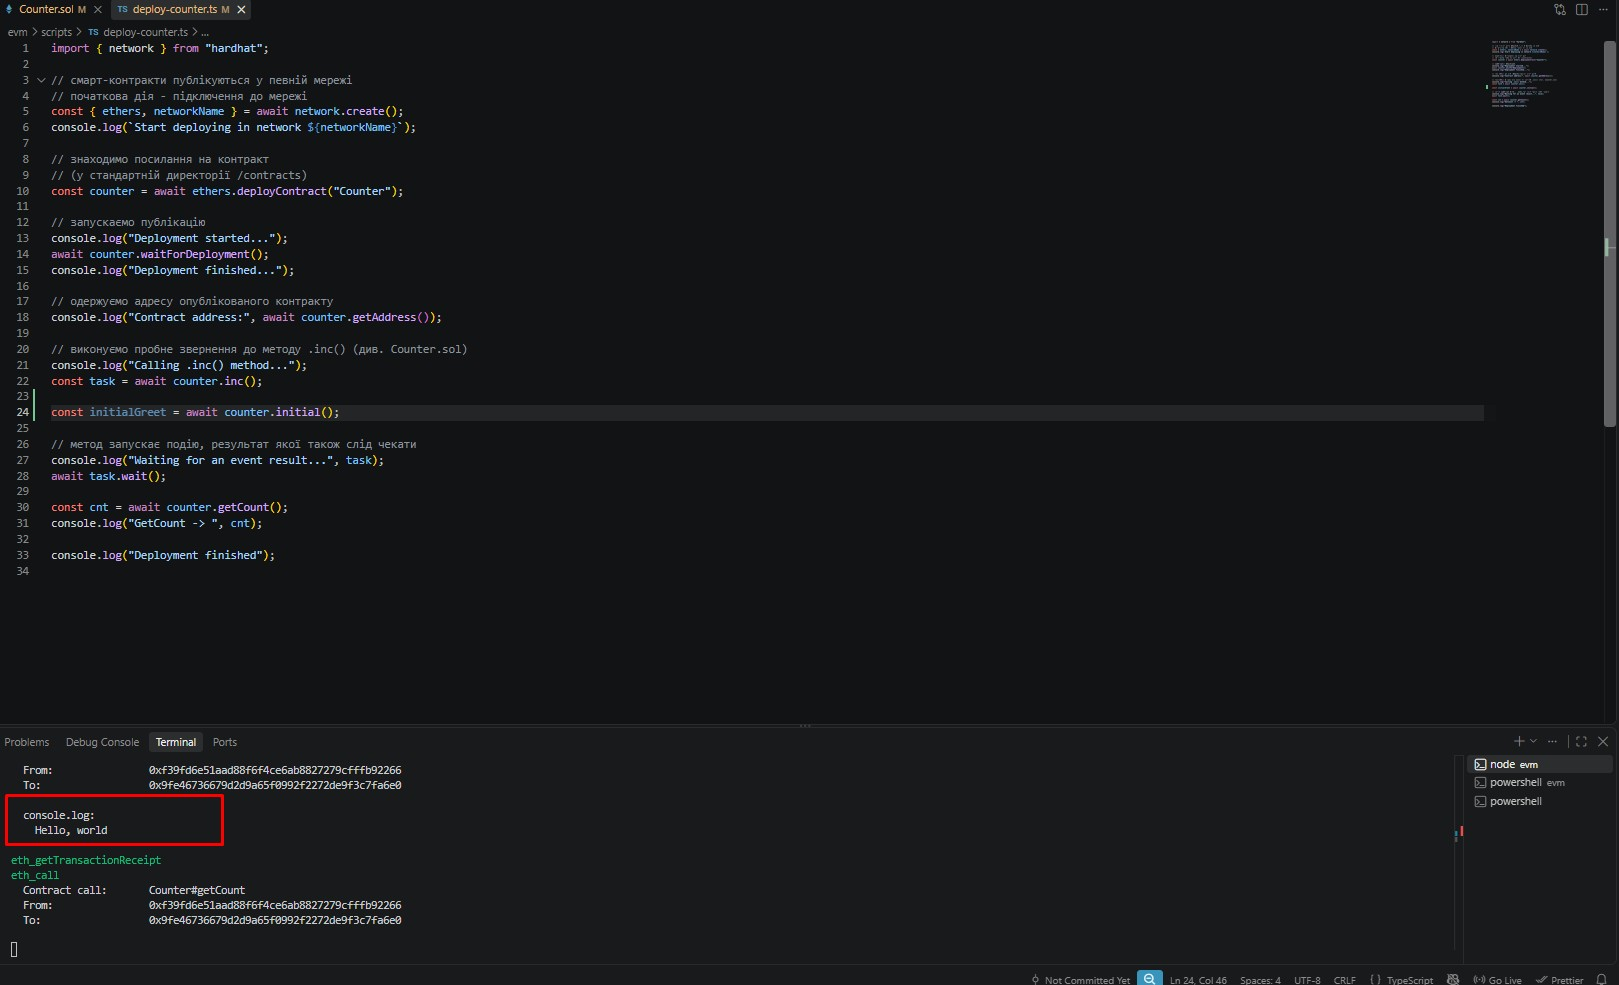
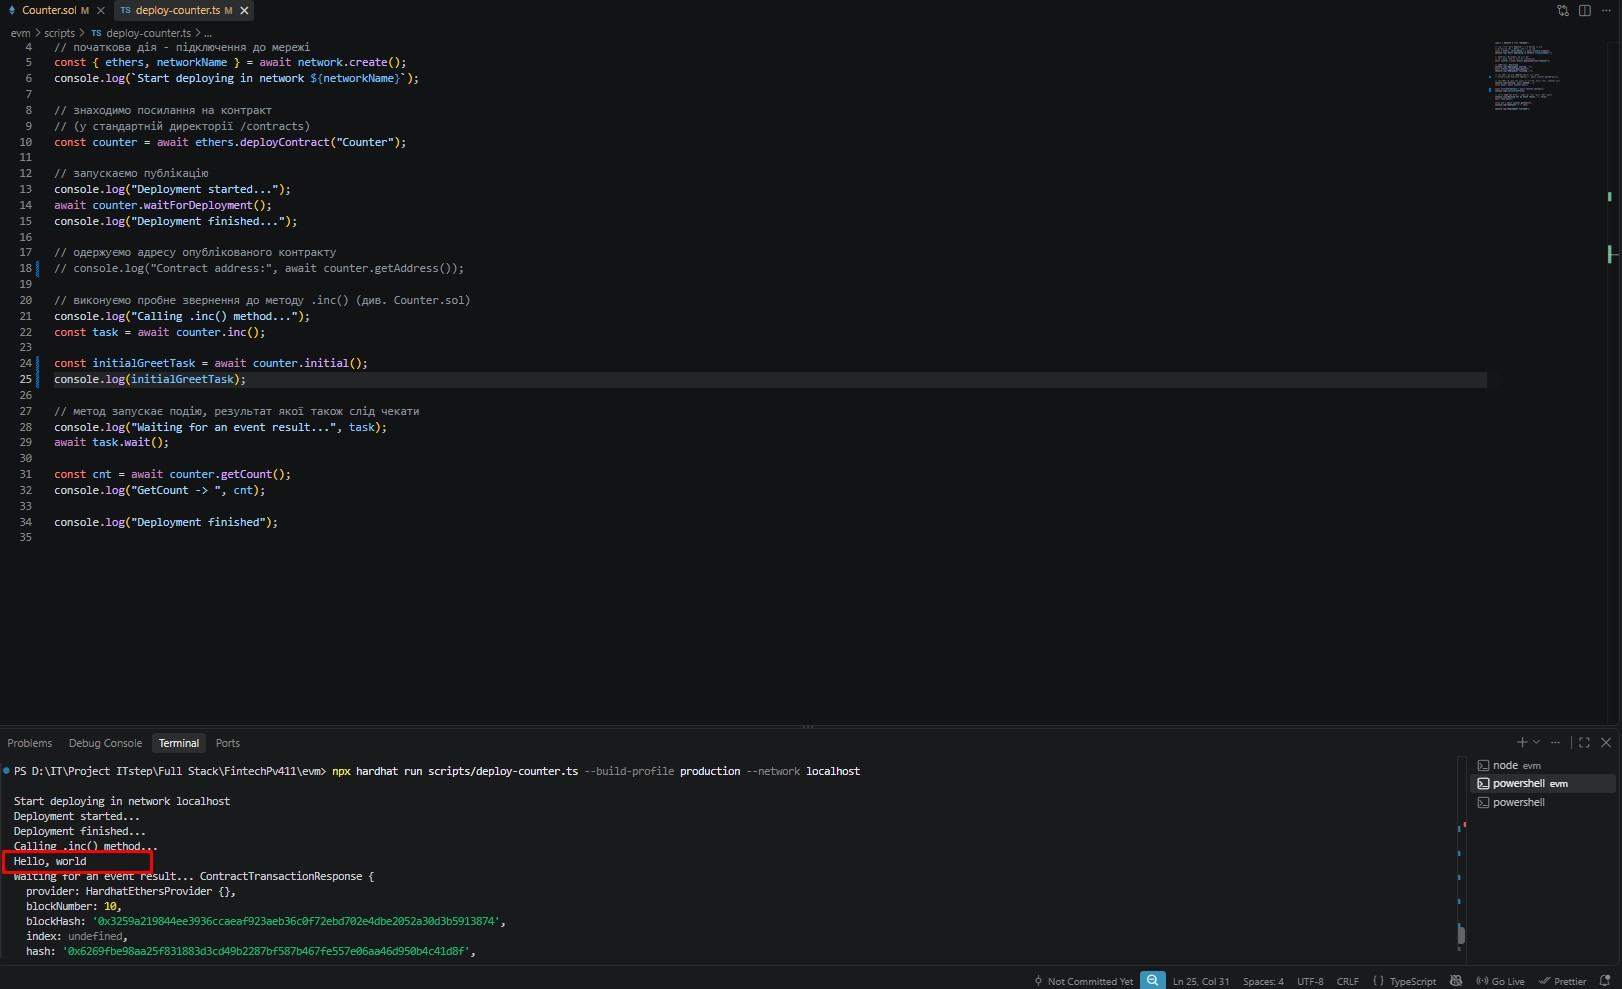
Blockchain продовження update

diff --git a/evm/scripts/deploy-counter.ts b/evm/scripts/deploy-counter.ts
@@ -21,7 +21,8 @@ console.log("Contract address:", await counter.getAddress());
 console.log("Calling .inc() method...");
 const task = await counter.inc();
 
-const initialGreet = await counter.initial();
+const initialGreetTask = await counter.initial();
+console.log(initialGreetTask);
 
 // метод запускає подію, результат якої також слід чекати
 console.log("Waiting for an event result...", task);

diff --git a/evm/scripts/deploy-initial.ts b/evm/scripts/deploy-initial.ts
@@ -1,0 +1,13 @@
+import { network } from "hardhat";
+
+const { ethers, networkName } = await network.create();
+console.log(`Start deploying in network ${networkName}`);
+
+const initial = await ethers.deployContract("Initial");
+
+console.log("Deployment started...");
+await initial.waitForDeployment();
+console.log("Deployment finished...");
+
+const task = await initial.greet();
+console.log(task);
